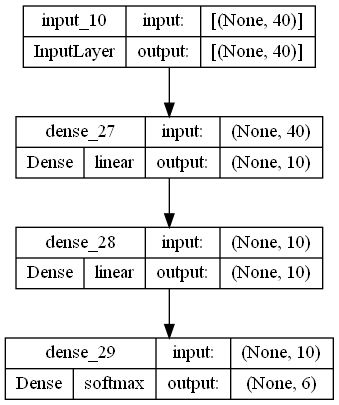
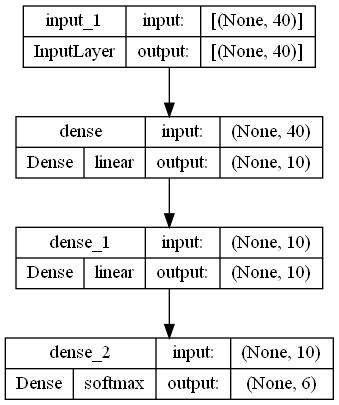
- Remove reapted words - Generate plot images

diff --git a/main.py b/main.py
@@ -5,6 +5,8 @@ import nltk
 from nltk.stem import SnowballStemmer
 from sklearn.preprocessing import LabelEncoder
 import tensorflow as tf
+import pandas as pd
+import matplotlib.pyplot as plt
 import random
 
 
@@ -38,6 +40,9 @@ class AI:
                 self.words.extend(stemmed_words)
                 self.data.append(stemmed_words)
                 self.labels.append(intent['context'])
+
+        # Remove repeated words
+        self.words = set(self.words)
 
     # ------------------------------------------------------------------------------
 
@@ -79,7 +84,27 @@ class AI:
             optimizer=tf.keras.optimizers.Adam(),
             metrics=['accuracy'])
 
-        self.model.fit(x, y, epochs=500, batch_size=32, verbose=2)
+        history = self.model.fit(x, y, epochs=500, batch_size=32, verbose=2)
+
+        # Generate model
+        tf.keras.utils.plot_model(self.model,
+                                  show_shapes=True,
+                                  show_layer_activations=True,
+                                  to_file='images/model.png')
+
+        # Generate training result
+        suptitle = 'Training result'
+        title = f'Words: {len(self.words)}'
+        title += ' / '
+        title += f'Sentences: {len(self.data)}'
+        title += ' / '
+        title += f'Labels: {len(set(y))}'
+
+        pd.DataFrame(history.history).plot()
+        plt.suptitle(suptitle)
+        plt.title(title, fontsize=12, color='#fd4d4d')
+        plt.xlabel('Epochs')
+        plt.savefig('images/training_result.png')
 
     # ------------------------------------------------------------------------------
 
